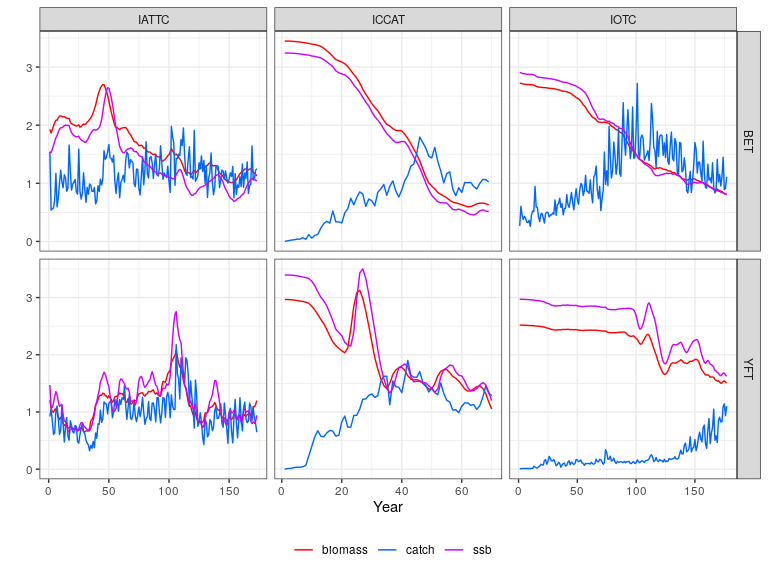
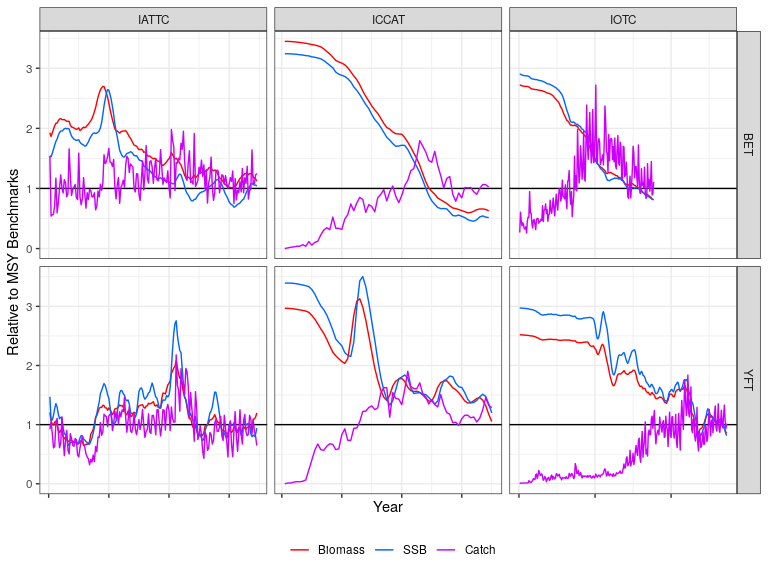
Updates from Overleaf

diff --git a/draft.tex b/draft.tex
@@ -21,9 +21,9 @@
 \definecolor{coilin}{rgb}{1,0,1}
 
 \newcommand{\laurie}{\textcolor{red}}
-\newcommand{\coilin}{\textcolor{coilin}}
-\newcommand{\hans}{\textcolor{darkblue}}
-\newcommand{\alex}{\textcolor{darkred}}
+\newcommand{\henning}{\textcolor{blue}}
+\newcommand{\iago}{\textcolor{darkblue}}
+\newcommand{\rishi}{\textcolor{darkred}}
 \newcommand{\todo}[1]{\laurie{\textbf{\textit{#1}}}}
 
 \begin{document}
@@ -31,8 +31,8 @@
 \title{Non-Stationarity in Productivity.}
 
 \author{%
-\name{Laurence T. Kell}
-\address{Centre for Environmental Policy, Imperial College London, London SW7 1NE}
+\name{Laurence T. Kell 1, Rishi Sharma 2, Henning Winker 3, Toshihide Kitakado 4, Iago Mosqueira 5}
+\address{1.Centre for Environmental Policy, Imperial College 2. FAO, Marine and Inland Fisheries, Rome, Italy 3. JRC, European Union, Ispra, Italy 4. Tokyo University of Marine Science and Technology, Tokyo, Japan 5. Waginengen University and Research, Netherlands  }
 \email{e-mail Lauriel@seapluslus.co.uk}
 \and
 \name{}
@@ -40,8 +40,7 @@
 }
 
 \abstract{
-The Ecosystem Report Card of the Sub-Committee on Ecosystems includes indicators for assessed species  based on productivity, i.e. trends of biomass or spawning stock biomass relative and fishing mortality or harvest rate relative to Maximum Sustainable Yield reference points. The objective is to assess whether the main target stocks are in a healthy, cautious or critical state and how this has changed over time. Productivity, however, depends on physical and biological processes knowledge of which is important for ecosystem based fisheries management. We therefore evaluate changes in productivity for bigeye and yellowfin tuna in the Atlantic, Indian and Eastern Pacific oceans. 
-}
+The Ecosystem Report Card of the Sub-Committee on Ecosystems includes indicators for assessed species  based on productivity, i.e. trends of biomass or spawning stock biomass relative and fishing mortality or harvest rate relative to Maximum Sustainable Yield reference points. The objective is to assess whether the main target stocks are in a healthy, cautious or critical state and how this has changed over time. Productivity, however, depends on physical and biological processes knowledge of which is important for ecosystem based fisheries management. We used the stock assessments for bigeye and yellowfin tunas from the Atlantic, Indian and Eastern Pacific Oceans, to illustrate the use of diagnostics based on production functions and surplus production verses biomass trajectories to explore changes in productivity.}
 
 \date{\today}
 
@@ -57,25 +56,30 @@ The Ecosystem Report Card of the Sub-Committee on Ecosystems includes indicators
 
 \section{Introduction}
 
-ICCAT has recently amended its Convention in order to move towards Ecosystem Based Fisheries Management (EBFM) so that the Commission and its Members shall act to: (a) apply the precautionary approach and an ecosystem approach to fisheries management in accordance with relevant internationally agreed standards and, as appropriate, recommended practices and procedures; (b) use the best scientific evidence available; and (c) protect biodiversity in the marine environment.
+ICCAT has recently amended its Convention in order to move towards an Ecosystem Approach to Fisheries Management (EAFM). To do this the Commission and its Members shall act to: (a) apply the precautionary approach and an ecosystem approach to fisheries management in accordance with relevant internationally agreed standards and, as appropriate, recommended practices and procedures; (b) use the best scientific evidence available; and (c) protect biodiversity in the marine environment.
 
-Currently the main tool developed by the SCRS to implement EBFM is the Ecosystem Report Card (ERC) of the Sub-Committee on Ecosystems (SC-ECO). This includes indicators for assessed species and as the Commission moves towards EBFM there is a need to develop models for stock assessment and management that integrate environmental conditions \citep{travis2014integrating}.  Particularly since growth and mortality, as well as recruitment, may be driven by environmental pressure.
+Currently the main tool developed by the SCRS to implement EAFM is the Ecosystem Report Card (ERC) of the Sub-Committee on Ecosystems (SC-ECO). This includes indicators for assessed species and as the Commission moves towards EAFM there is a need to develop models for stock assessment and management that integrate environmental conditions \citep{travis2014integrating}.  Particularly since growth and mortality, and recruitment, may be driven by environmental pressure.
 
-Currently indicators used for assessed species are based on the ratios of biomass or spawning stock biomass (SSB) relative to $B_{MSY}$, and fishing mortality or harvest rate relative to $F_{MSY}$. These indicators are obtained either from age based fisheries stock assessments that integrate changing vulnerability schedules, mean recruitment relationships, and recruitment anomalies, to estimate stock trends and reference points, or biomass dynamic assessments that fit a production function based on population growth rate ($r$), carrying capacity ($K$). In the age based models there is an implicit production function and process error is modelled either as variability in recruitment or selection pattern. In the biomass dynamic models with an explicit production function process error can be modelled explicitly.  
+Currently the indicators used for assessed species are based on the ratios of biomass or spawning stock biomass (SSB) relative to $B_{MSY}$, and fishing mortality or harvest rate relative to $F_{MSY}$. These indicators are obtained either from age-structured stock assessments that integrate changing vulnerability schedules, mean recruitment relationships, and recruitment anomalies, to estimate stock trends and reference points, or biomass dynamic assessments that fit a production function based on population growth rate ($r$), carrying capacity ($K$). In the age based models there is an implicit production function and process error is modelled either as variability in recruitment and/or selection pattern. In the biomass dynamic models with an explicit production function process error can be modelled explicitly.  
 
-In age based models density dependence is mainly accounted for by the stock recruitment relationship. 
-\cite{cury2014resolving}, however, showed that in most cases the stock-recruitment relationship used to estimate productivity and determine reference points, has poor predictive power and the environmental has a larger effect on productivity, a results confirmed by other studies \citep[e.g.][]{szuwalski2014examining} and observed 100 years ago by \cite{hjort1914fluctuations}.
+In age-structured models density dependence is mainly accounted for by the stock recruitment relationship. \cite{cury2014resolving}, however, showed that in most cases the stock-recruitment relationship used to estimate productivity and determine reference points, has poor estimation/predictive power and the environmental has a larger effect on productivity, a results confirmed by other studies \citep[e.g.][]{szuwalski2015examining, szuwalski2019global}(ADD Free, C.M., Thorson, J.T., Pinsky, M.L., Oken, K.L., Wiedenmann, J., Jensen, O.P., 2019. Impacts of historical warming on marine fisheries production. Sci 363, 979–983.) and observed 100 years ago by \cite{hjort1914fluctuations}. Whereas in ICCAT assessments growth, maturation and natural mortality are assumed not to have varied despite the large changes in the environment and stock biomass seen.
 
-\cite{hilborn2001calculation} recommended looking at patterns of change in surplus production (SP) since these may contain evidence of changes in the growth and mortality components of production, which are typically not represented in models currently used for stock assessment and management. For example in ICCAT assessments growth and natural mortality are commonly assumed not to have varied despite the large changes in the environment and stock biomass seen.
-
+\cite{hilborn2001calculation} therefore recommended looking at patterns of change in surplus production (SP) since these may contain evidence of changes in the growth and mortality components of production, which are typically not represented in models currently used for stock assessment and management. 
 %It is difficult, however, to examine empirical patterns in surplus production for the assessed ICCAT species since there is only limited fisheries independent data. An alternative is to estimate SP using assessment outputs. 
-
-We therefore use the integrated stock assessments conducted using Stock Synthesis 3 \cite[SS3]{methot2005technical} for bigeye and yellowfin tuna stocks in the Atlantic, Indian and Eastern Pacific Oceans to estimate surplus production and explore whether the dynamics are determined by a production function or dynamics are recruitment-driven and influenced by the environment.
+We therefore use the integrated stock assessments conducted with Stock Synthesis 3 (Methot and Wetzel 2013) \cite[SS3]{methot2005technical} for bigeye (in italics: Thunnus obesus) and yellowfin tuna (Thunnus albacares) stocks in the Atlantic, Indian and Eastern Pacific Oceans to estimate surplus production and explore whether the dynamics are determined by a production function or dynamics are recruitment-driven and influenced by the environment.
 
 \section{Material and Methods}
 
-\cite{walters2008surplus} argued that plots of surplus production ($SP$) vs. biomass ($B$) should be one of the basic pieces of information presented in all stock assessments since the plots provide a check on whether there has been non-stationarity in production processes, i.e. whether similar $B$ levels have exhibited similar SP at different historical times, and importantly for management advice whether predictions of changes in biomass ($B_{t+1} - B_t$) can be made reliably just based on catch and $B_t$. Plots of $SP$ v $B$ therefore provide a summary of stock performance and include effects not necessarily included in stock assessment models. 
+\cite{walters2008surplus} argued that plotting of surplus production ($SP$) against biomass ($B$) should be one of the basic pieces of information presented in all stock assessments since the plots provide a check on whether there has been non-stationarity in the annual surplus production, i.e. whether similar $B$ levels have exhibited similar SP at different historical times. This is important for management as it checks whether predictions of changes in biomass ($B_{t+1} - B_t$) can be made reliably based on catch and $B_t$. Plots of $SP$ v $B$ therefore provide a summary of stock performance and include effects not necessarily included in stock assessment models. 
+
+The effects not included in the production function used to predict $SP$ can be modelled by an process error term \epsilon$_t$.
+
+$B_{t+1}=B_t-C_t+SP_t+\epsilon_t$
  
+ Process error on biomass can account for model structural uncertainty as well as natural variability of stock biomass due to stochasticity in recruitment, natural mortality, growth, and maturation \citep{francis2011data} (add Meyer and Miller 1999; Winker et al. 2018).
+
+
+%/ [HW: There are no results on this! Changes in recruitment and SPR 0 regimes were evaluated using a sequential t-test algorithm for regime shifts \citep{rodionov2004sequential}.
 
 \begin{itemize}[topsep=0pt,itemsep=0ex,partopsep=0ex,parsep=0ex]
     %\item a direct check on whether predictions of changes in biomass ($B_{t+1} - B_t$) can be made reliably just based on catch and $B_t$, in particular whether similar $B$ levels have exhibited similar SP at different historical times, i.e., whether there has been non-stationarity in production processes. 
@@ -83,54 +87,72 @@ We therefore use the integrated stock assessments conducted using Stock Synthesi
     %\item  a diagnostic for whether stocks have exhibited strong compensatory response, i.e., increase in $S/B$ at low stock sizes. Stocks that have not exhibited such responses have very likely been overfished over the whole period of historical record. In such cases reference points, e.g., $B_0$, should be viewed as highly speculative extrapolations that cannot be justified by available data, no matter how complex the stock assessment models used to analyze those data. 
     %\item  The plots are an important diagnostic for whether stock collapse has been due to overfishing or to antecedent decline in $S$ (that then caused $B$ to decline) attributable to factors other than stock size. 
     %\item ) While fitting SP curves to SP vs. B data is likely to result in highly biased estimates of unfished $B_{0}$, such fitting exercises are not expected to produce badly biased estimates of intrinsic population growth rate ro (Fmax) and hence of “good” target fishing mortality rates. As an example, F = $R_0/2$ is likely a good target exploitation rate that can be put in place without any reference to unfished stock size.
+    %\item Note that we don't have the direction of the trajectory around the production function, i.e. it is clockwise its driven by the recruitment/pe and if its anticlockwise its driven by production function.
 \end{itemize}
 
-We therefore examine the relationships between surplus production and biomass  for bigeye and yellowfin tuna stocks in the Atlantic, Indian and Eastern Pacific Oceans using the results from integrated stock assessments. To do this we estimate annual surplus production as the change in stock size plus catch (i.e. $B_t – B_{t+1} + C_t$). We then plot the resulting time series of $S$ and $B$ to identify patterns of variation in $S$ .  
+We therefore examine the relationships between surplus production and biomass  for bigeye and yellowfin tuna stocks in the Atlantic, Indian and Eastern Pacific Oceans using the results from integrated stock assessments. To do this we estimate annual surplus production as the change in stock size plus catch (i.e. $B_t – B_{t+1} + C_t$). We then plot the resulting time series of $S$ and $B$ to identify patterns of variation in $S$. 
 
+The process error was then sampled from SS3 stock trajectories as the difference between deterministic expectation of biomass  and its stochastic realisation, such that:
+
+\epsilon$_t = SB_t+1 - (SB_t+SP_t-C_t)$  (I'd prefer this on log-scale)
+
+Long-term changes in process error regimes were evaluated using a sequential t-test algorithm for regime shifts \citep{rodionov2004sequential}.
+
+ In the case of ICCAT and IOTC stocks, quarterly assessment models were used surplus production was calculated on an annual basis by aggregating catch and biomass across seasons and areas using r4ss\footnote{https://github.com/r4ss/r4ss}.
+ 
 \section{Results}
 
-\textbf{Figure} \ref{fig:ts} Time series of SSB, biomass and catch relative to  reference points
+Time series of SSB, biomass and catch relative to $MSY$ reference points are shown in \textbf{Figure} \ref{fig:ts}. For both ICCAT and IOTC stock has declined as a result of an increase in fishing pressure. In the case of ICCAT yellowfin a large increase in biomass and $SSB$ was seen which appears to have been independent of fishing pressure. The picture in the Eastern Pacific Ocean appears less clear as changes in biomass and $SSB$ appear to occur independently of fishing pressure.
 
-\textbf{Figure} \ref{fig:sp} Surplus production plotted against biomass, dark to light colour of trajaectory indicates early to late period; clockwise loops in SP caused by positive production anomalies.
+Surplus production is plotted against biomass in \textbf{Figure} \ref{fig:sp}, dark to light colour of the trajectory indicates early to late periods. Clockwise cycling is seen in SP for IAATC bigeye, ICCAT yellowfin and IOTC yellowfin. This is caused by positive production anomalies, i.e. productivity over and above that predicted by the production function. 
 
-\textbf{Figure} \ref{fig:pf} Production functions, with trajectories of catch and biomass; red indicates region of overfishing and overfished.
+The production functions, with trajectories of catch and biomass; red indicates region of overfishing and overfished, are shown in \textbf{Figure} \ref{fig:pf}.
 
-\textbf{Figure} \ref{fig:pe} Time series of process error.
+%\textcolor{red}{Fig 3. ICCAT & IOTC stocks, quarterly models were used. Surplus was calculated in each quarterly step, but how? It multiplied 4 to compare with IATTC (?). Better to briefly explain how the curves were estimated in the text. Just in case, in theory, estimation of S-R after stock assessment needs consideration of errors-in-variables model, where data in x-y both axes have uncertainty, potentially a large variance.}
 
-\textbf{Figure} \ref{fig:pe2} Process error, scaled relative to mean biomass, with regimes
-
+Time series of process error are shown in \textbf{Figure} \ref{fig:pe} and scaled relative to mean biomass, with regimes in \textbf{Figure} \ref{fig:pe2}. 
 
 \section{Discussion}
 
-\begin{itemize}[labelindent=\parindent,noitemsep,topsep=0pt,parsep=0pt,partopsep=0pt]
-\item The ICCAT and IOTC stocks have shown long term declines, while the IATTC stocks have shown more variability over time.  
- \item 
-Independent and positive lognormal recruitment anomalies result in a clockwise loop of successive values when $S$ is plotted against stock size
-\item Clockwise cycling was seen for three stocks IATTC bigeye and IOTC and ICCAT yellowfin.
- \item  For IOTC bigeye and yellowfin, larger values of $S$ were seen at low stock biomass. The observed dynamics may also be an indication of model misspecification.
-\item \cite{walters} showed that the usual assumptions in age-structured models (stable body growth, no change in natural mortality rate, recruitment following a Beverton–Holt curve) generally implies lower $S$ during population recoveries than during declines because of reduction in mean fecundity.
-\end{itemize}
+ICCAT and IOTC stocks have shown long term declines, while both IATTC stocks have shown variability over time with no long term trend. This may be due to the model specification rather than the actual dynamics since IATTC uses a steepness value for the stock recruitment relationship (SSR) of h=0.99 which assumes that a means that dynamics are driven by recruitment, whereas ICCAT and IOTC use values in realms of 0.7-0.9.
+
+The observed dynamics may also be an indication of model misspecification. Diagnostic tools to check for model mis-specification and validation currently includes  deterministic Age-Structured Production Model (ASPM), likelihood profiling (Maunder and Piner xxx) and Runs Tests (Maunder & Piner 2015; Carvalho et al. 2017), but need to be developed further, specifically with regards to implication for assessment model prediction skill under non-stationary process error (Kell et al. 2016; Chang et al. 2019).
+
+Independent and positive lognormal recruitment anomalies resulted in pronounced clockwise loop of successive values when $SP_t$ is plotted against stock size $SB_t$ for IATTC bigeye, ICCAT yellowfin and IOTC yellowfin implying that dynamics are recruitment driven. For IOTC bigeye and yellowfin, larger values of $SP_t$ were seen at low stock biomass. 
+
+ 
+%\cite{walters} showed that the usual assumptions in age-structured models (stable body growth, no change in natural mortality rate, recruitment following a Beverton–Holt curve) generally implies lower $S$ during population recoveries than during declines because of reduction in mean fecundity.
 
 \section{Consequences for EBFM indicators}
 
+In contrast Ecosystem models without age-structured effects typically predict the opposite pattern: higher SP at each stock size during recoveries than declines. Lower production during recoveries is often predicted by ecosystem models with size- and age-structured dynamics, especially when there are cultivation–depensation effects at play (Walters and Kitchell 2001, Liermann and Hilborn 1997). 
+
+Higher production rates during recoveries are sometimes predicted by ecosystem models with size- and age-structure effects, but only when such models include ecosystem-scale changes in productivity (regime shifts), such that trophically driven increases in production can drive population increases/vice versa where we don't observe these increases as a function of these changes in the ecosystem, and hence we see lower production at lower biomass levels. 
+
+Further, it has not been made clear what relationships we should expect between overall biomass and SP during population declines and recoveries and in particular whether age-structured and ecosystem models predict “non-stationarity” in the biomass–production relationship such that production rates exhibited at given biomass levels during recoveries might differ greatly from rates exhibited during declines. A particular concern is whether we should expect slower recoveries (lower SP at each stock size) than we would predict from production rates observed during declines, i.e., should populations recover more slowly than expected from simple dome-shaped production model theory (Hutchings and Reynolds 2004). For example, simulation studies have identified poor forecast performance when autocorrelation in recruitment was ignored (Johnson et al., 2016), which was associated with an increased risk of a “stochastic collapse” (Thorson et al., 2015).
+
+In the Pacific Fishery Management Council (PFMC, Source , Citation), they use an age-structured model to predict recoveries so it would automatically incorporate at least recruitment effects caused by reduced mean fecundity in growing populations. Reduced mean fecundity in growing populations occurs because the population age structure is shifted toward younger fish, i.e., there is a proportional scarcity of older, more fecund individuals.
+
+Here we examine observed relationships between SP rates and stock size for a variety of stocks. We estimate annual SP as change in stock size plus catch (SP = stock next year – stock this year + catch) and plot resulting empirical time series of SP and biomass estimates to look directly at patterns of variation in SP with biomass. We compare these patterns to those predicted by age-structured population models and by ecosystem models with and without age-structure effects. 
+
+We show that the usual assumptions in age-structured models (stable body growth, no change in natural mortality rate, recruitment following Beverton–Holt curve on average) generally imply lower SP during population recoveries than during declines because of reduction in mean fecundity. However, independent lognormal recruitment anomalies cause the opposite effect, with each positive anomaly resulting in a clockwise loop of successive values when SP is plotted against stock size; further, such anomalies can cause severe bias in estimates of unfished stock size, when a simple SP curve is fitted to the production vs. biomass data. We show that ecosystem models without age-structured effects typically predict the opposite pattern: higher SP at each stock size during recoveries than declines. Lower production during recoveries is often predicted by ecosystem models with size- and age-structured dynamics, especially when there are cultivation–depensation effects at play (Walters and Kitchell 2001). 
+
+Higher production rates during recoveries are sometimes predicted by ecosystem models with size- and age-structure effects, but only when such models include ecosystem-scale changes in productivity (regime shifts), such that trophically driven increases in production can drive population increases. We recommend that simple plots of SP rate vs. stock size be provided with stock assessment and ecosystem model results in general.
+
+Winker et. al.(2020 jabbasel) noted that age-structured production models (ASPMs) are often preferred over biomass aggregated surplus production models (SPMs) as the former can track the propagation of cohorts and explicitly account for the effects of selective fishing, even in the absence of reliable size- or age data. ‘JABBA-Select’, an extension of the JABBA software (Just Another Bayesian Biomass Assessment; Winker et al., 2018), is able to overcome some of the shortcomings of conventional SPMs and allows a direct comparison to ASPMs. 
 
 \begin{itemize}[labelindent=\parindent,noitemsep,topsep=0pt,parsep=0pt,partopsep=0pt]
-\item The presence of clockwise cycling due to recruitment anomalies, implies that future catches are driven by incoming year classes, rather than the production function.
+\item Finally, the presence of clockwise cycling due to recruitment anomalies, implies that future catches are driven by incoming year classes, rather than the production function.
 \item There appears to be a suggestion that the stock may be more productive at low stock size that predicted by the implicit production function and reference points derived from them.
-\item Need to look at estimates of growth and mortality, e.g. from tagging studies.
-\item Possibility of model misspecification.
-\item Operating Models used in MSE should be condition on hypotheses related to ecological processes, particularly as this study showed that either the models used for stock assessment are misspecified or do not account for important ecological processes.
+
+Additional work would need to look at estimates of growth and mortality, e.g. from tagging studies, to assess why these production functions are clockwise in direction.
+
+As suggested earlier, there is possibility of model mis-specification, as some of the commissions omit the possibility of a SSR by setting the default a recruitment driven stock (h=0.99 in IATTC), which may or may not be the case.
+
+Operating Models used in MSE should be conditioned on hypotheses related to ecological processes, particularly as this study showed that either the models used for stock assessment are mis-specified or do not account for important ecological processes.
+
 \end{itemize}
 
-
-%In contrast Ecosystem models without age-structured effects typically predict the opposite pattern: higher SP at each stock size during recoveries than declines. Lower production during recoveries is often predicted by ecosystem models with size- and age-structured dynamics, especially when there are cultivation–depensation effects at play (Walters and Kitchell 2001). Higher production rates during recoveries are sometimes predicted by ecosystem models with size- and age-structure effects, but only when such models include ecosystem-scale changes in productivity (regime shifts), such that trophically driven increases in production can drive population increases. 
-
-
-%Further, it has not been made clear what relationships we should expect between overall biomass and SP during population declines and recoveries and in particular whether age-structured and ecosystem models predict “nonstationarity” in the biomass–production relationship such that production rates exhibited at given biomass levels during recoveries might differ greatly from rates exhibited during declines. A particular concern is whether we should expect slower recoveries (lower SP at each stock size) than we would predict from production rates observed during declines, i.e., should populations recover more slowly than expected from simple dome-shaped production model theory (Hutchings and Reynolds 2004). In the PFMC, they use an age-structured model to predict recoveries so it would automatically incorporate at least recruitment effects caused by reduced mean fecundity in growing populations. Reduced mean fecundity in growing populations occurs because the population age structure is shifted toward younger fish, i.e., there is a proportional scarcity of older, more fecund individuals.
-
-%Here we examine observed relationships between SP rates and stock size for a variety of stocks. We estimate annual SP as change in stock size plus catch (SP = stock next year – stock this year + catch) and plot resulting empirical time series of SP and biomass estimates to look directly at patterns of variation in SP with biomass. We compare these patterns to those predicted by age-structured population models and by ecosystem models with and without age-structure effects. We show that the usual assumptions in age-structured models (stable body growth, no change in natural mortality rate, recruitment following Beverton–Holt curve on average) generally imply lower SP during population recoveries than during declines because of reduction in mean fecundity. However, independent lognormal recruitment anomalies cause the opposite effect, with each positive anomaly resulting in a clockwise loop of successive values when SP is plotted against stock size; further, such anomalies can cause severe bias in estimates of unfished stock size, when a simple SP curve is fitted to the production vs. biomass data. We show that ecosystem models without age-structured effects typically predict the opposite pattern: higher SP at each stock size during recoveries than declines. Lower production during recoveries is often predicted by ecosystem models with size- and age-structured dynamics, especially when there are cultivation–depensation effects at play (Walters and Kitchell 2001). Higher production rates during recoveries are sometimes predicted by ecosystem models with size- and age-structure effects, but only when such models include ecosystem-scale changes in productivity (regime shifts), such that trophically driven increases in production can drive population increases. We recommend that simple plots of SP rate vs. stock size be provided with stock assessment and ecosystem model results in general.
-
-%\citep{{winkler2019jabbasel} Age-structured production models (ASPMs) are often preferred over biomass aggregated surplus production models (SPMs) as the former can track the propagation of cohorts and explicitly account for the effects of selective fishing, even in the absence of reliable size- or age data. Here, we introduce ‘JABBA-Select’, an extension of the JABBA software (Just Another Bayesian Biomass Assessment; Winker et al., 2018), that is able to overcome some of the shortcomings of conventional SPMs and allows a direct comparison to ASPMs. JABBASelect incorporates life history parameters and fishing selectivity and distinguishes between exploitable biomass (used to fit indices given fishery selectivity) and spawning biomass (used to predict surplus production). Applying JABBA-Select involves using an age-structured equilibrium model to convert the input parameters into multivariate normal priors for surplus-production productivity parameters. We illustrate the main elements of JABBA-Select using the stock parameters of South African silver kob (Argyrosomus inodorus, Scienidae) as a case study. This species is exploited by multiple fisheries and was selected as an example of a data moderate fishery that features strong contrast in selectivity over time and across fleets. For proof-of-concept, we use an agestructured simulation framework to compare the performance of JABBA-Select to: 1) a conventional Bayesian state-space model using a Pella-Tomlinson (PT) production function, 2) an ASPM with deterministic recruitment; and 3) an ASPM with stochastic recruitment. The PT model produced biased estimates of relative and absolute spawning biomass trajectories and associated reference points, which by contrast could be fairly accurately estimated by JABBA-Select. JABBA-Select performed at least as well as the ASPMs in accuracy for most of the performance metrics and best characterized the stock status uncertainty. The results indicate that JABBA-Select is able to accurately account for moderate changes in selectivity and fleet dynamics over time and to provide a robust tool for data-moderate stock assessments.
 
 \section{Acknowledgement}
 
@@ -148,7 +170,7 @@ Independent and positive lognormal recruitment anomalies result in a clockwise l
 \begin{figure}[h]
 \centering
 \includegraphics[width=\textwidth]{pe-tsmsy-1.png}
-\caption{Time series of SSB, biomass and catch relative to $MSY$ based reference points.}
+\caption{Time series of SSB (blue), biomass (red?) and fishing mortality (purple) relative to $MSY$ based reference points.}
 \label{fig:ts}
 \end{figure}
 
@@ -166,7 +188,7 @@ Independent and positive lognormal recruitment anomalies result in a clockwise l
 \begin{figure}[h]
 \centering
 \includegraphics[width=\textwidth]{pe-pf2-1.png}
-\caption{Production functions, with trajectories of catch and biomass; coloured regions correspond to Kobe quadrants, i.e. red indicates overfishing and overfished.}
+\caption{Surplus Production phase plots, with trajectories of catch and biomass; coloured regions correspond to Kobe quadrants, i.e. red indicates overfishing and overfished corresponding to the Kobe phase plot classification.}
 \label{fig:pf}
 \end{figure}
 
@@ -175,7 +197,7 @@ Independent and positive lognormal recruitment anomalies result in a clockwise l
 \begin{figure}[h]
 \centering
 \includegraphics[width=\textwidth]{pe-pe-1.png}
-\caption{Time series of process error.}
+\caption{Time series of process error expressed deviation of stochastic biomass and its deterministic expectation for time step}.
 \label{fig:pe}
 \end{figure}
 
